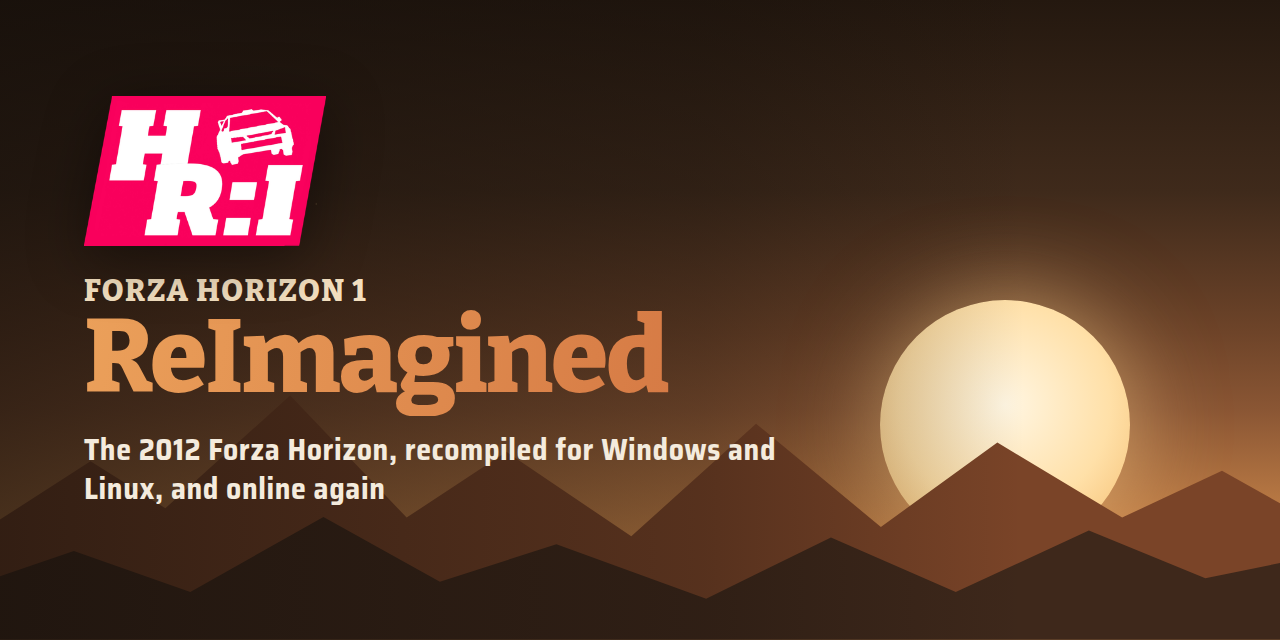
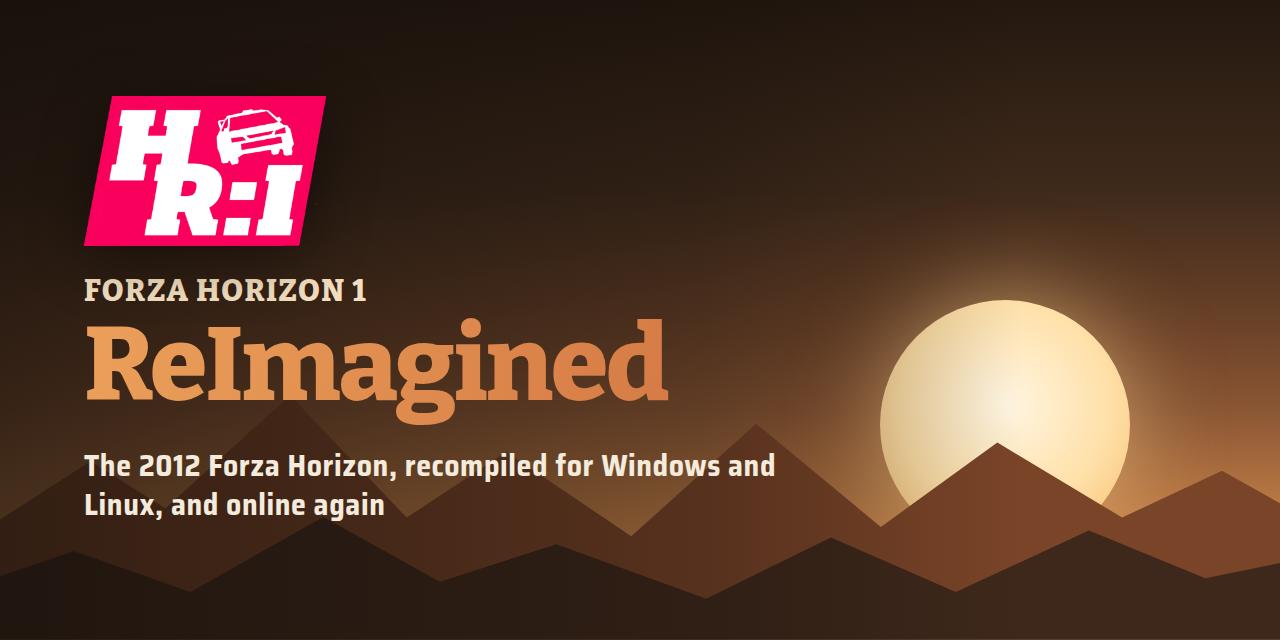
Navbar title and social preview: room for the g of ReImagined (#22)

Changed region(s): [[0.0625, 0.4688, 0.625, 0.8125], [0.5, 0.4688, 0.5312, 0.5]]

diff --git a/style.css b/style.css
@@ -113,7 +113,7 @@ html.js .landing .topbar:not(.solid)::before { opacity: 0; }
 .brand { display: flex; align-items: center; gap: 11px; text-decoration: none; color: var(--cream); white-space: nowrap; flex-shrink: 0; }
 .brand img { display: block; width: auto; height: 36px; filter: drop-shadow(0 2px 6px rgba(0, 0, 0, .35)); }
 .brand span { display: flex; flex-direction: column; font: 700 15px/1.05 var(--font-ui); letter-spacing: .01em; }
-.brand b { font: 800 17px/1 var(--font-headline); letter-spacing: -.005em; background: var(--grad); -webkit-background-clip: text; background-clip: text; color: transparent; }
+.brand b { font: 800 17px/1.25 var(--font-headline); padding-bottom: .12em; letter-spacing: -.005em; background: var(--grad); -webkit-background-clip: text; background-clip: text; color: transparent; }
 .brand:hover { color: var(--cream); }
 nav { display: flex; align-items: center; gap: 2px; flex: 1; min-width: 0; }
 nav a, .menu summary {
